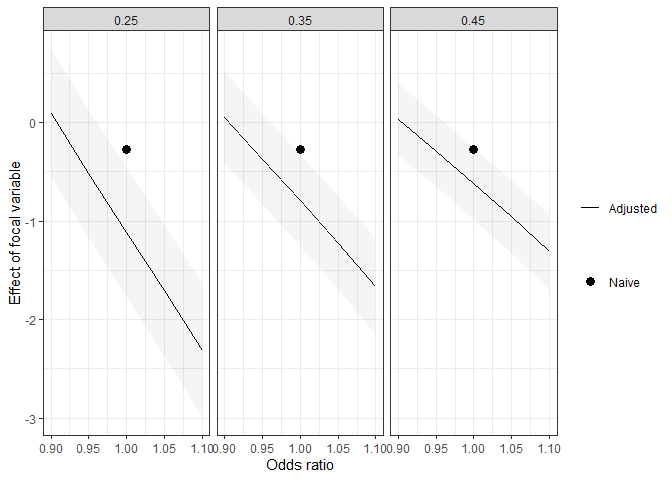
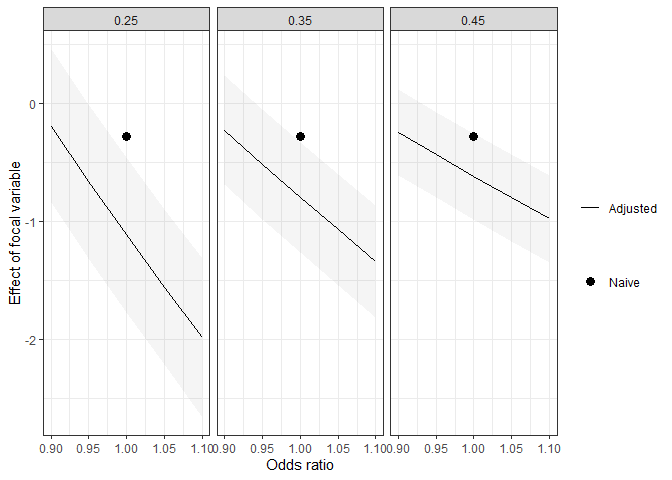
update readme with new version of functions

diff --git a/README.md b/README.md
@@ -40,7 +40,7 @@ rcme_ind(
   D = 0.9) 
 #> $sim_result
 #>          focal_variable    SE    rr
-#> Estimate          0.365 0.029 0.928
+#> Estimate           0.34 0.034 0.928
 #> 
 #> $naive
 #> 
@@ -75,21 +75,21 @@ rcme_ind(
 #> The crime variable will be logged to reflect the multiplicative error structure. If you wish to report the sensitivity results in the original crime metric they will need to be transformed. For a full discussion of the multiplicative error structure of crime see Pina-Sanchez et al., 2022.
 #> $sim_result
 #>      R    D log_var    rr focal_variable    SE
-#> 1  0.3 0.90    TRUE 0.928          0.892 0.136
-#> 2  0.6 0.90    TRUE 0.957          0.871 0.137
-#> 3  0.9 0.90    TRUE 0.989          0.819 0.139
-#> 4  0.3 0.95    TRUE 0.964          0.669 0.147
-#> 5  0.6 0.95    TRUE 0.979          0.661 0.147
-#> 6  0.9 0.95    TRUE 0.995          0.634 0.149
+#> 1  0.3 0.90    TRUE 0.928          0.774 0.142
+#> 2  0.6 0.90    TRUE 0.957          0.626 0.149
+#> 3  0.9 0.90    TRUE 0.989          0.458 0.154
+#> 4  0.3 0.95    TRUE 0.964          0.595 0.150
+#> 5  0.6 0.95    TRUE 0.979          0.513 0.153
+#> 6  0.9 0.95    TRUE 0.995          0.428 0.155
 #> 7  0.3 1.00    TRUE 1.000          0.398 0.155
 #> 8  0.6 1.00    TRUE 1.000          0.398 0.155
 #> 9  0.9 1.00    TRUE 1.000          0.398 0.155
-#> 10 0.3 1.05    TRUE 1.034          0.101 0.159
-#> 11 0.6 1.05    TRUE 1.019          0.090 0.159
-#> 12 0.9 1.05    TRUE 1.005         -0.085 0.158
-#> 13 0.3 1.10    TRUE 1.068         -0.199 0.159
-#> 14 0.6 1.10    TRUE 1.038         -0.244 0.158
-#> 15 0.9 1.10    TRUE 1.009         -0.683 0.056
+#> 10 0.3 1.05    TRUE 1.034          0.195 0.159
+#> 11 0.6 1.05    TRUE 1.019          0.283 0.157
+#> 12 0.9 1.05    TRUE 1.005          0.370 0.156
+#> 13 0.3 1.10    TRUE 1.068         -0.008 0.160
+#> 14 0.6 1.10    TRUE 1.038          0.169 0.159
+#> 15 0.9 1.10    TRUE 1.009          0.342 0.157
 #> 
 #> $naive
 #> 
